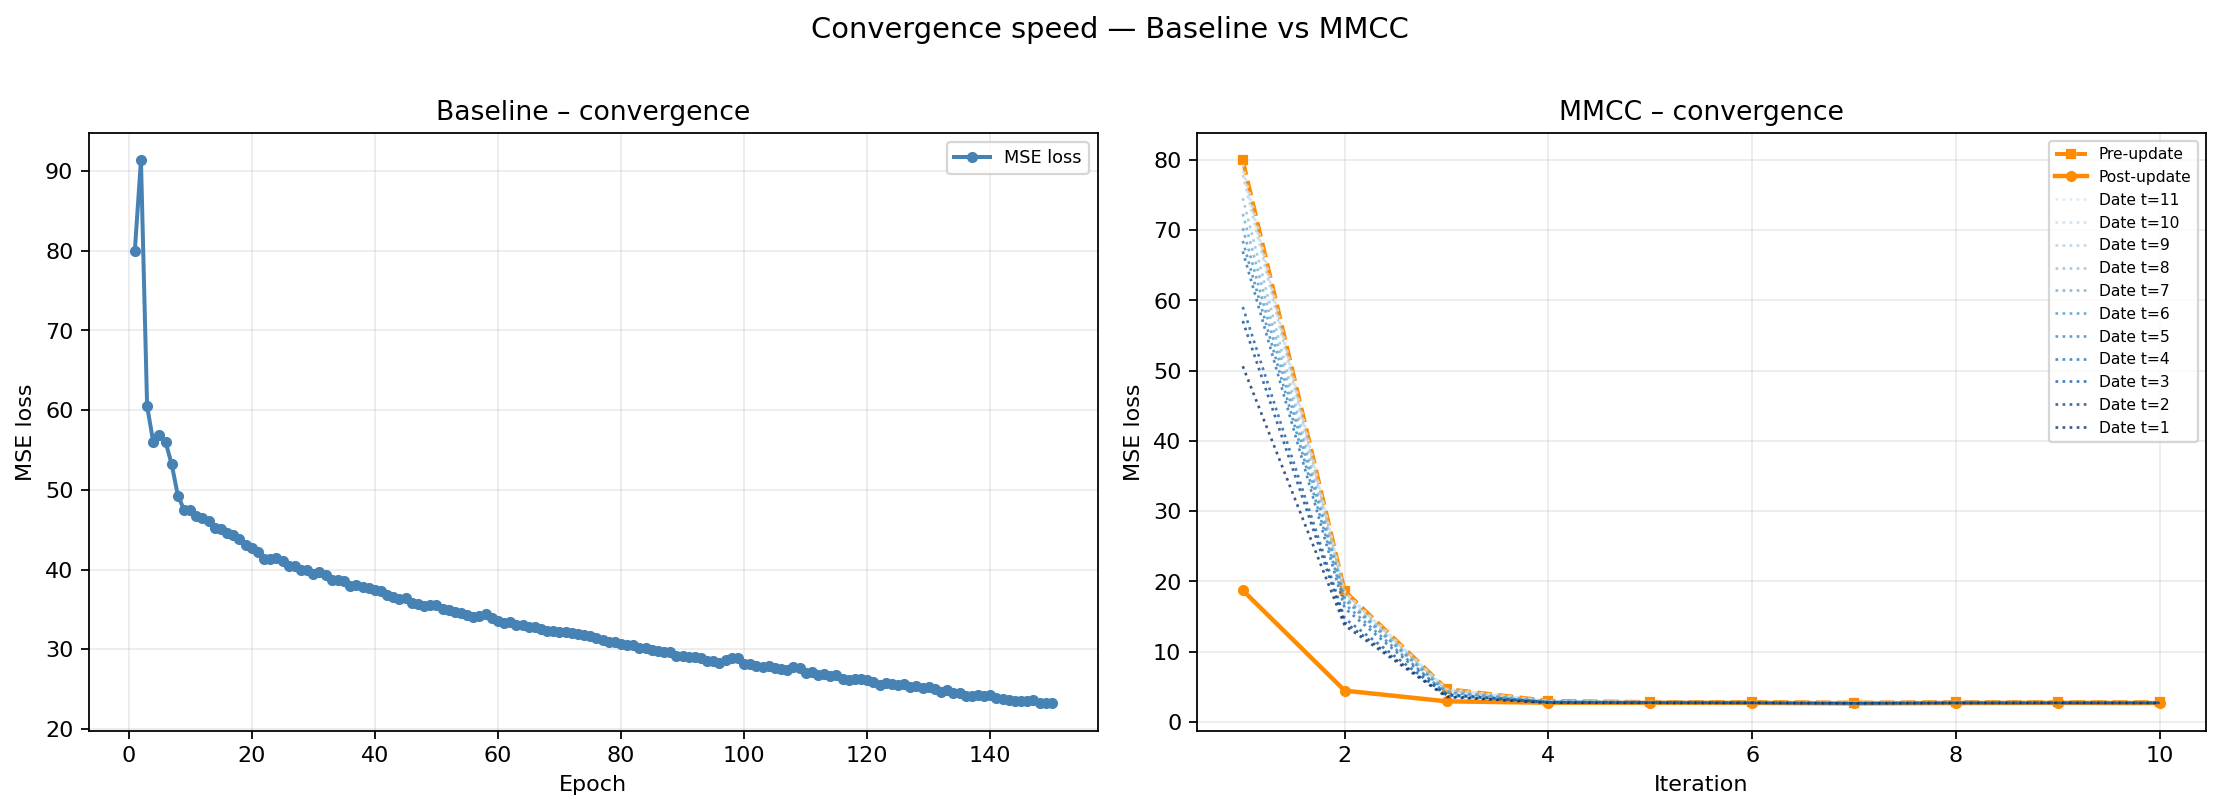
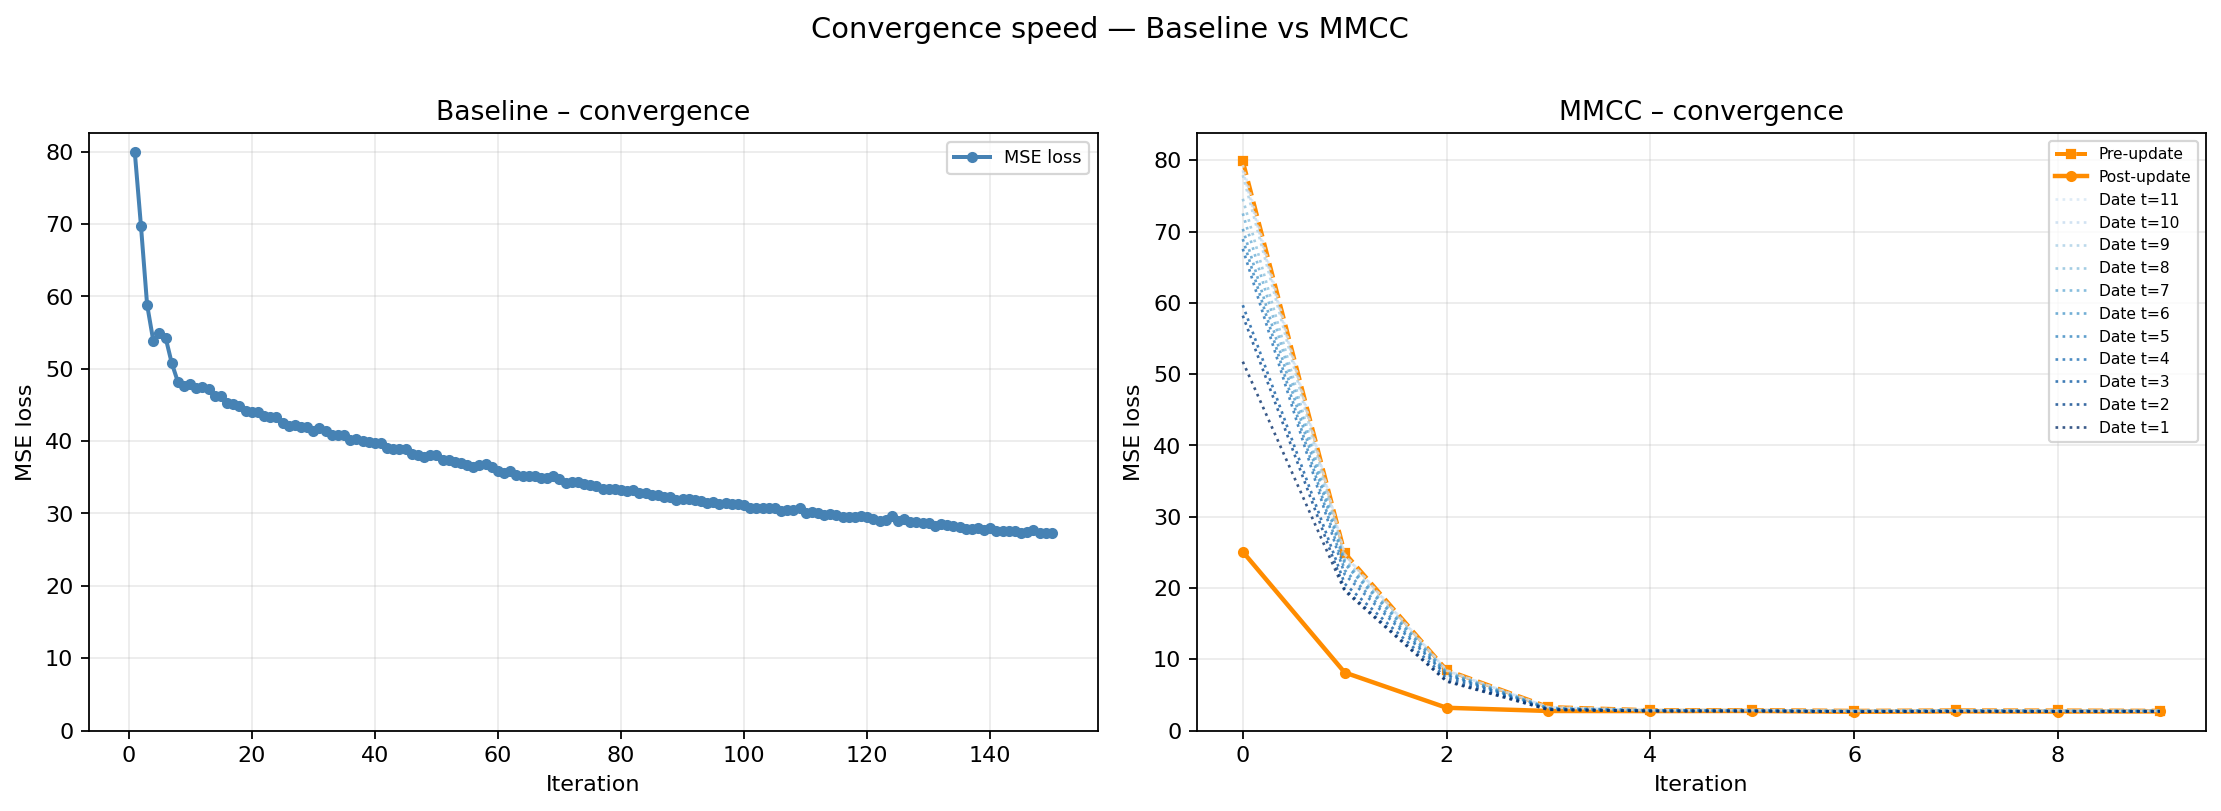
last modif

diff --git a/src/mmcc_hedging/visualization_2.py b/src/mmcc_hedging/visualization_2.py
@@ -117,7 +117,7 @@ class Visualizer2:
         )
 
         ax.set_title(title)
-        ax.set_xlabel("Time")
+        ax.set_xlabel("Time (t/T)")
         ax.set_ylabel("Target position $q_n$")
         ax.legend(fontsize=8)
         ax.grid(alpha=0.25)
@@ -284,14 +284,15 @@ class Visualizer2:
         ax_base.plot(epochs, baseline_losses, color="steelblue",
                      linewidth=1.8, marker="o", markersize=4, label="MSE loss")
         ax_base.set_title("Baseline – convergence")
-        ax_base.set_xlabel("Epoch")
+        ax_base.set_xlabel("Iteration")
         ax_base.set_ylabel("MSE loss")
+        ax_base.set_ylim(bottom=0)
         ax_base.legend(fontsize=8)
         ax_base.grid(alpha=0.25)
 
         # ── MMCC ─────────────────────────────────────────────────────────
         if mmcc_history:
-            iters = np.array([log.iteration + 1 for log in mmcc_history])
+            iters = np.array([log.iteration for log in mmcc_history])
             pre   = np.array([log.pre_loss   for log in mmcc_history])
             post  = np.array([log.post_loss  for log in mmcc_history])
 
@@ -312,6 +313,7 @@ class Visualizer2:
         ax_mmcc.set_title("MMCC – convergence")
         ax_mmcc.set_xlabel("Iteration")
         ax_mmcc.set_ylabel("MSE loss")
+        ax_mmcc.set_ylim(bottom=0)
         ax_mmcc.legend(fontsize=7)
         ax_mmcc.grid(alpha=0.25)
 
@@ -322,3 +324,4 @@ class Visualizer2:
         fig.savefig(out_path, dpi=160, bbox_inches="tight")
         plt.close(fig)
         print(f"[Visualizer2] Figure saved: {out_path}")
+

diff --git a/scripts/run_experiment.py b/scripts/run_experiment.py
@@ -71,7 +71,7 @@ def main() -> None:
     num_epochs_initial_control=300,
     baseline_epochs=150,
     evaluation_num_paths=100000,
-    learning_rate=1e-2,
+    learning_rate=7e-3,
     seed=223,
     evaluation_seed=459,
     verbose=True,
